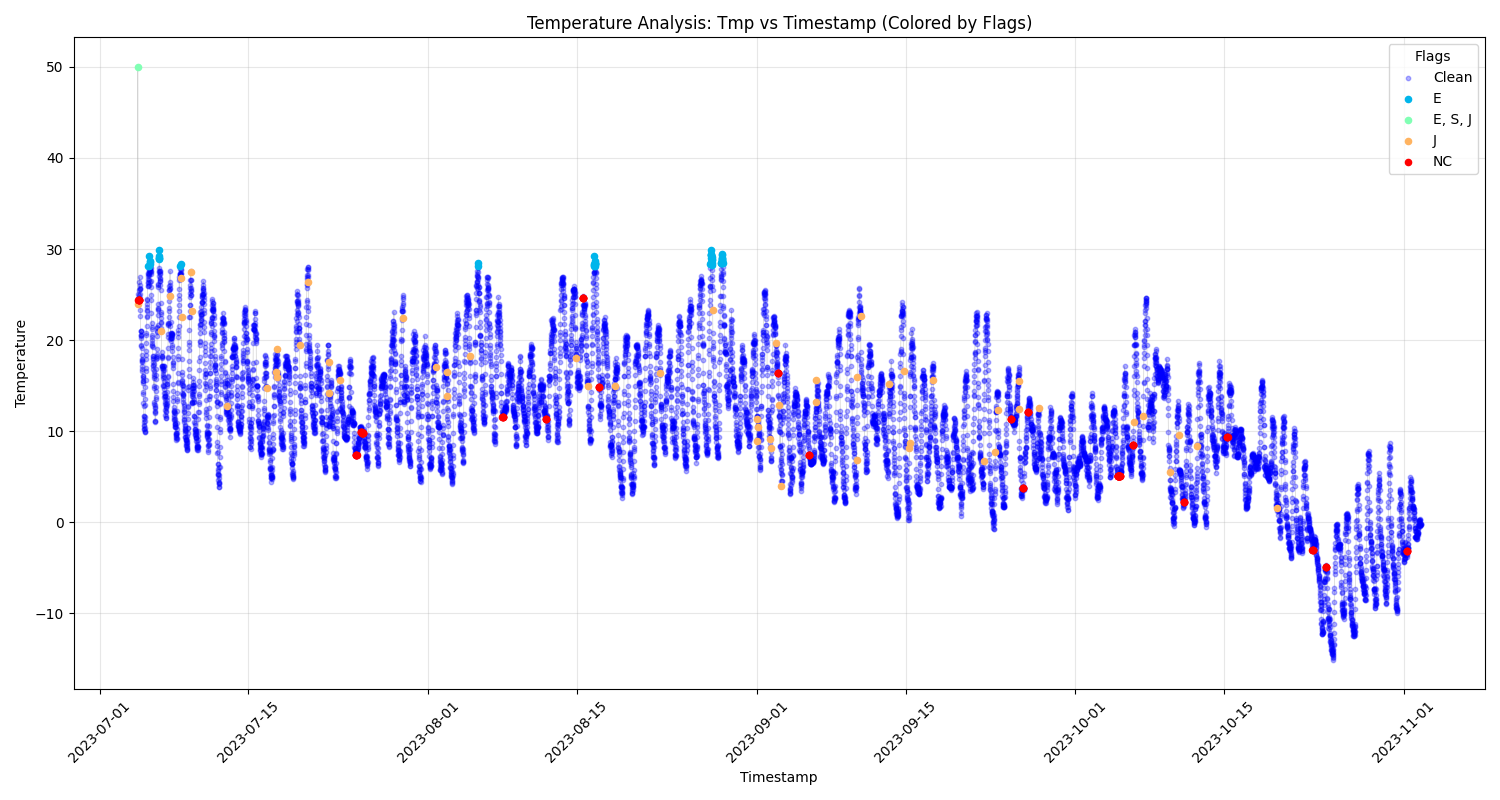
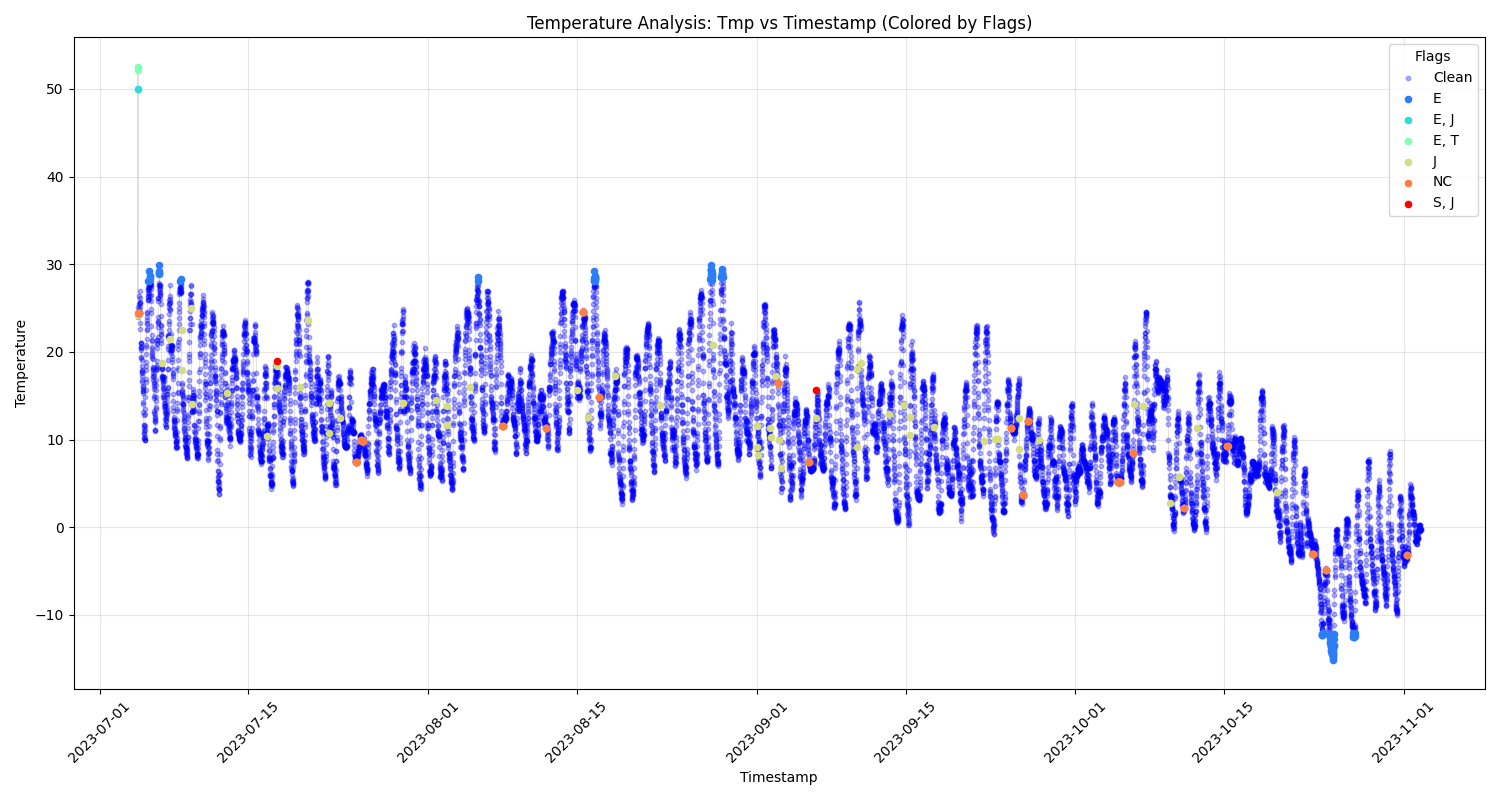
fixed for today

diff --git a/quick_fix.py b/quick_fix.py
@@ -32,6 +32,24 @@ def isolate_columns(file_path):
         if 'tmp' in df_subset.columns:
             # Convert to numeric just in case
             df_subset['tmp'] = pd.to_numeric(df_subset['tmp'], errors='coerce')
+
+            max_val = df_subset['tmp'].max()
+            min_val = df_subset['tmp'].min()
+
+            temp_max = df_subset['tmp'].quantile(0.995)
+            temp_min = df_subset['tmp'].quantile(0.005)
+
+            # --- Step Change / Neighbor Logic ---
+            # Calculate difference with next row (i vs i+1)
+            # diff_next = current - next
+            df_subset['diff_next'] = df_subset['tmp'] - df_subset['tmp'].shift(-1)
+
+            #absolute 99.5
+            delta_max_diff_next_abs = abs(df_subset['diff_next']).quantile(0.995)
+
+            # Calculate difference with prev row (i vs i-1)
+            # diff_prev = current - prev
+            df_subset['diff_prev'] = df_subset['tmp'] - df_subset['tmp'].shift(1)
             
             # --- Flaggging Logic ---
             if 'tmp_Flag' not in df_subset.columns:
@@ -67,50 +85,13 @@ def isolate_columns(file_path):
             # Use 'NC' for these rows. 
             df_subset.loc[mask_nc, 'tmp_Flag'] = 'NC'
          
-            
-            max_val = df_subset['tmp'].max()
-            min_val = df_subset['tmp'].min()
+    
+            # for a future file, we would need to have our diff next be from the historicals, while hte current
+            # comparissons are done from the existing file. 
 
-            # --- Step Change / Neighbor Logic ---
-            # Calculate difference with next row (i vs i+1)
-            # diff_next = current - next
-            df_subset['diff_next'] = df_subset['tmp'] - df_subset['tmp'].shift(-1)
-
-            p99_5_diff_next = df_subset['diff_next'].quantile(0.995)
-            # p00_5_diff_next = df_subset['diff_next'].quantile(0.005)
-
-            #absolute 99.5
-            p99_5_diff_next_abs = abs(df_subset['diff_next']).quantile(0.995)
-
-            
-            # Calculate difference with prev row (i vs i-1)
-            # diff_prev = current - prev
-            df_subset['diff_prev'] = df_subset['tmp'] - df_subset['tmp'].shift(1)
-
-            p99_5_diff_prev = df_subset['diff_prev'].quantile(0.995)
-            p00_5_diff_prev = df_subset['diff_prev'].quantile(0.005)
-            
-            # Store neighbor values as requested
-            df_subset['val_next'] = df_subset['tmp'].shift(-1)
-            df_subset['val_prev'] = df_subset['tmp'].shift(1)
-            
-            # --- New Logic: Neighbor Differences & Percentiles ---
-            # "val_next_val_prev" = val_next - val_prev
-            df_subset['val_next_val_prev'] = df_subset['val_next'] - df_subset['val_prev']
-                    
-            # Calculate 99.5th and 0.5th percentiles of the difference column
-            # (ignoring NaNs automatically by pandas)
-            p99_5 = df_subset['val_next_val_prev'].quantile(0.995)
-            p00_5 = df_subset['val_next_val_prev'].quantile(0.005)
-
-            p99_5_tmp = df_subset['tmp'].quantile(0.995)
-            p00_5_tmp = df_subset['tmp'].quantile(0.005)
-
-            p99_5_diff_next = df_subset['diff_next'].quantile(0.995)
-            p00_5_diff_next = df_subset['diff_next'].quantile(0.005)
 
             # 3. Extreme Value Check ('E')
-            mask_extreme = (df_subset['tmp'] > p99_5_tmp)
+            mask_extreme = (df_subset['tmp'] > temp_max) | (df_subset['tmp'] < temp_min)
             
             # Calculate masks based on CURRENT state before modification
             mask_is_clean = (df_subset['tmp_Flag'] == '')
@@ -123,7 +104,8 @@ def isolate_columns(file_path):
             # 2. Append to existing flags
             df_subset.loc[mask_extreme & mask_not_clean, 'tmp_Flag'] += ', E'
             
-            # 4. Temperature Threshold Check ('T')
+            # 4. Temperature Threshold Check ('T') # make it so that in the future,
+            # it can be filled in via a config (climate value value gets passed in instead of 50)
             temperature_threshold = (df_subset['tmp'] > 50) | (df_subset['tmp'] < -50)
             
             # Calculate masks based on CURRENT state (post-E updates)
@@ -135,7 +117,7 @@ def isolate_columns(file_path):
             df_subset.loc[temperature_threshold & mask_not_clean, 'tmp_Flag'] += ', T'
             
             # 5. Spike Check ('S')
-            spike_threshold = (df_subset['diff_next'])
+            spike_threshold = (df_subset['diff_next'] > delta_max_diff_next_abs) & (df_subset['diff_prev'] > delta_max_diff_next_abs)
             
             # Calculate masks based on CURRENT state (post-E, T updates)
             mask_is_clean = (df_subset['tmp_Flag'] == '')
@@ -146,8 +128,8 @@ def isolate_columns(file_path):
             df_subset.loc[spike_threshold & mask_not_clean, 'tmp_Flag'] += ', S'
 
             # 6. Jump Check ('J')
-            # Check if absolute diff_next is greater than the p99.5 absolute diff_next
-            jump_threshold = df_subset['diff_next'].abs() > p99_5_diff_next_abs
+            # Check if absolute diff_prev (change from previous) is greater than threshold
+            jump_threshold = df_subset['diff_prev'].abs() > delta_max_diff_next_abs
             
             # Calculate masks based on CURRENT state
             mask_is_clean = (df_subset['tmp_Flag'] == '')
@@ -157,40 +139,16 @@ def isolate_columns(file_path):
             df_subset.loc[jump_threshold & mask_is_clean, 'tmp_Flag'] = 'J'
             df_subset.loc[jump_threshold & mask_not_clean, 'tmp_Flag'] += ', J'
 
-            
+        
 
+            df_subset['delta_max_diff_next_abs'] = delta_max_diff_next_abs
 
-            
-
-            
-            print(f"99.5th Percentile of diff: {p99_5}")
-            print(f"0.5th Percentile of diff: {p00_5}")
-
-            df_subset['p99_5_diff_next'] = p99_5_diff_next
-            df_subset['p00_5_diff_next'] = p00_5_diff_next
-
-            df_subset['p99_5_diff_next_abs'] = p99_5_diff_next_abs
-
-            df_subset['p99_5_diff_prev'] = p99_5_diff_prev
-            df_subset['p00_5_diff_prev'] = p00_5_diff_prev
-            
-            # Store these scalar values in new repeating columns
-            df_subset['99.5_val_next_prev'] = p99_5
-            df_subset['0.5_val_next_prev'] = p00_5
-
-            df_subset['99.5_diff_next'] = p99_5_diff_next
-            df_subset['0.5_diff_next'] = p00_5_diff_next
-
-            df_subset['99.5_tmp'] = p99_5_tmp
-            df_subset['0.5_tmp'] = p00_5_tmp
+            df_subset['99.5_tmp'] = temp_max
+            df_subset['0.5_tmp'] = temp_min
 
             # Also keep simple max/min columns as originally planned
             df_subset['tmp_Max'] = max_val
-            df_subset['tmp_Min'] = min_val
-
-            #add difference between val next and val_prv
-            df_subset['val_next_val_prev'] = df_subset['val_next'] - df_subset['val_prev']
-             
+            df_subset['tmp_Min'] = min_val             
         print("\nIsolated DataFrame Head:")
         print(df_subset.head())
         
